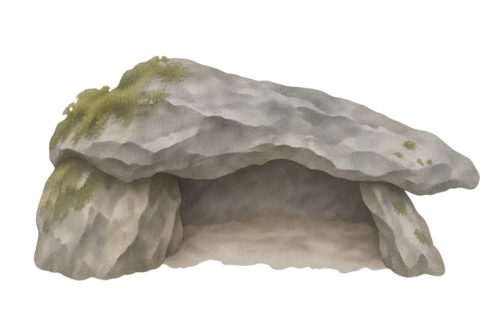
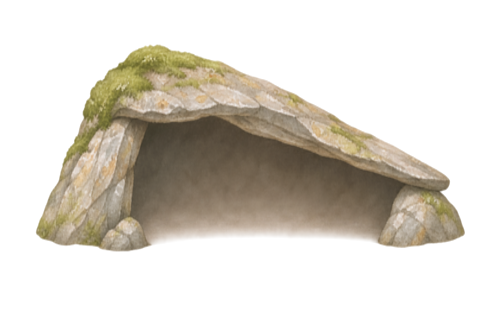
Use the approved slanted slab for the rock shelter

diff --git a/app/src/main/assets/web/scene.js b/app/src/main/assets/web/scene.js
@@ -342,14 +342,14 @@ class ForestScene {
  prepareShelter(){if(this.shelterPaper)return;const im=this.assets.garden;this.shelterPaper=document.createElement('canvas');const can=this.shelterPaper;can.width=im.width;can.height=im.height;const c=can.getContext('2d');c.drawImage(im,0,0);const patch=document.createElement('canvas');patch.width=530;patch.height=370;const q=patch.getContext('2d');q.drawImage(im,500,540,520,370,0,0,530,370);q.globalCompositeOperation='destination-in';const v=q.createLinearGradient(0,0,0,370);v.addColorStop(0,'transparent');v.addColorStop(.10,'black');v.addColorStop(.90,'black');v.addColorStop(1,'transparent');q.fillStyle=v;q.fillRect(0,0,530,370);q.globalCompositeOperation='destination-in';const h=q.createLinearGradient(0,0,530,0);h.addColorStop(0,'black');h.addColorStop(.86,'black');h.addColorStop(1,'transparent');q.fillStyle=h;q.fillRect(0,0,530,370);c.drawImage(patch,0,180);}
  shelterArt(f,front=false){const Sh=Forest.Shelter,t=Sh.transform(f),c=this.ctx,im=this.assets.garden;c.save();
  if(front){const outer=[[35,470],[25,380],[70,315],[150,257],[240,238],[340,255],[415,310],[455,405],[445,425]];c.beginPath();for(const [i,[x,y]]of outer.entries()){const px=t.x+Sh.sourceX(x,f),py=t.y+(y-190)*t.sy;i?c.lineTo(px,py):c.moveTo(px,py);}c.closePath();const poly=Sh.polygon(f);for(const[i,q]of poly.entries())i?c.lineTo(q.x*360,q.y*576):c.moveTo(q.x*360,q.y*576);c.closePath();c.clip('evenodd');}
- /* 1.2.0 mirrored shelter: only the picture is flipped here; the clip paths above already use the mirrored outline */c.save();if(f.flip){c.translate(2*t.x+220+t.extra,0);c.scale(-1,1);}const art=Sh.isRock(f)&&this.assets.rockShelter||this.sa('shelterArt');if(art)c.drawImage(art,0,0,500,330,t.x,t.y,220+t.extra,330*t.sy);else c.drawImage(im,0,190,500,330,t.x,t.y,220+t.extra,330*t.sy);c.restore();const snow=(this.state().patches.find(p=>p.id==='shelter')?.roofSnow||0)/1.2;if(snow>.01){c.save();c.globalAlpha=Math.min(.85,snow);c.strokeStyle='#f1f1e2';c.lineWidth=2.2;c.lineCap='round';c.beginPath();[[70,315],[150,257],[240,238],[340,255],[415,310]].forEach(([x,y],i)=>{const xx=t.x+Sh.sourceX(x,f),yy=t.y+(y-190)*t.sy;i?c.lineTo(xx,yy):c.moveTo(xx,yy);});c.stroke();c.restore();}
+ /* 1.2.0 mirrored shelter: only the picture is flipped here; the clip paths above already use the mirrored outline */c.save();if(f.flip){c.translate(2*t.x+220+t.extra,0);c.scale(-1,1);}const art=Sh.isRock(f)&&this.assets.rockShelter||this.sa('shelterArt');if(art)c.drawImage(art,0,0,500,330,t.x,t.y,220+t.extra,330*t.sy);else c.drawImage(im,0,190,500,330,t.x,t.y,220+t.extra,330*t.sy);c.restore();const snow=(this.state().patches.find(p=>p.id==='shelter')?.roofSnow||0)/1.2;if(snow>.01){c.save();c.globalAlpha=Math.min(.85,snow);c.strokeStyle='#f1f1e2';c.lineWidth=2.2;c.lineCap='round';c.beginPath();const roof=Sh.isRock(f)?[[89,318],[130,272],[166,237],[195,234],[260,247],[334,270],[411,302],[453,319]]:[[70,315],[150,257],[240,238],[340,255],[415,310]];roof.forEach(([x,y],i)=>{const xx=t.x+Sh.sourceX(x,f),yy=t.y+(y-190)*t.sy;i?c.lineTo(xx,yy):c.moveTo(xx,yy);});c.stroke();c.restore();}
   c.restore();}
  shelterFront(p,pos){const Sh=Forest.Shelter,s=this.state(),f=Sh.facility(s,p.shelter?.facilityId);if(!f||!['entering','restingInside','exiting'].includes(p.shelter.phase)||!Sh.inPoly(pos,Sh.polygon(f)))return;
-  // Only the physical wooden arch may cover an admitted character. The entrance
+  // Only the shelter roof and sides may cover an admitted character. The entrance
   // ground and the rectangular source-image paper always stay below every pet.
   const c=this.ctx,t=Sh.transform(f),poly=Sh.polygon(f),b=Sh.bounds(p,pos);c.save();
   c.beginPath();c.rect(b.left*360-2,b.top*576-2,(b.right-b.left)*360+4,(b.bottom-b.top)*576+4);c.clip();
-  c.beginPath();const arch=Sh.isRock(f)?[[18,480],[18,294],[76,253],[145,242],[330,244],[482,271],[482,478],[426,478],[405,411],[373,388],[342,369],[246,368],[181,374],[151,380],[139,434],[118,480]]:[[35,470],[25,380],[70,315],[150,257],[240,238],[340,255],[415,310],[455,405],[410,398],[400,364],[372,328],[326,300],[276,292],[218,307],[171,345],[143,396],[149,447]];
+  c.beginPath();const arch=Sh.isRock(f)?[[18,454],[18,210],[482,210],[482,454],[377,454],[387,390],[403,377],[338,360],[272,338],[219,324],[172,320],[146,331],[135,367],[128,420],[144,454]]:[[35,470],[25,380],[70,315],[150,257],[240,238],[340,255],[415,310],[455,405],[410,398],[400,364],[372,328],[326,300],[276,292],[218,307],[171,345],[143,396],[149,447]];
   arch.forEach(([x,y],i)=>{const px=t.x+Sh.sourceX(x,f),py=t.y+(y-190)*t.sy;i?c.lineTo(px,py):c.moveTo(px,py);});c.closePath();c.clip();this.shelterArt(f);c.restore();
  }
  shelterDebug(){if(!this.inspector?.scenario?.startsWith('SH'))return;const c=this.ctx,s=this.state(),Sh=Forest.Shelter;c.save();c.font='8px sans-serif';for(const f of s.shelters.facilities){const poly=Sh.polygon(f),a=Sh.ledger(s,f);c.strokeStyle='#4b8169';c.beginPath();poly.forEach((q,i)=>i?c.lineTo(q.x*360,q.y*576):c.moveTo(q.x*360,q.y*576));c.closePath();c.stroke();const t=Sh.transform(f);c.fillStyle='#334d40';c.fillText((a.used/4)+' used / '+(a.reserved/4)+' reserved / '+a.total/4,t.x+25,t.y+184);}for(const p of s.individuals){const b=Sh.bounds(p);c.strokeStyle=Sh.inside(s,p)?'#538661':'#b37a4d';c.strokeRect(b.left*360,b.top*576,(b.right-b.left)*360,(b.bottom-b.top)*576);}c.restore();}
